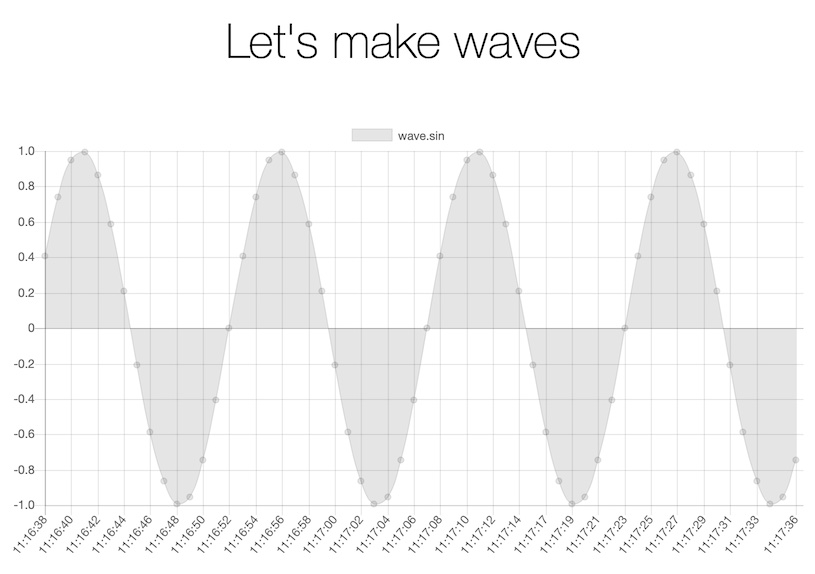
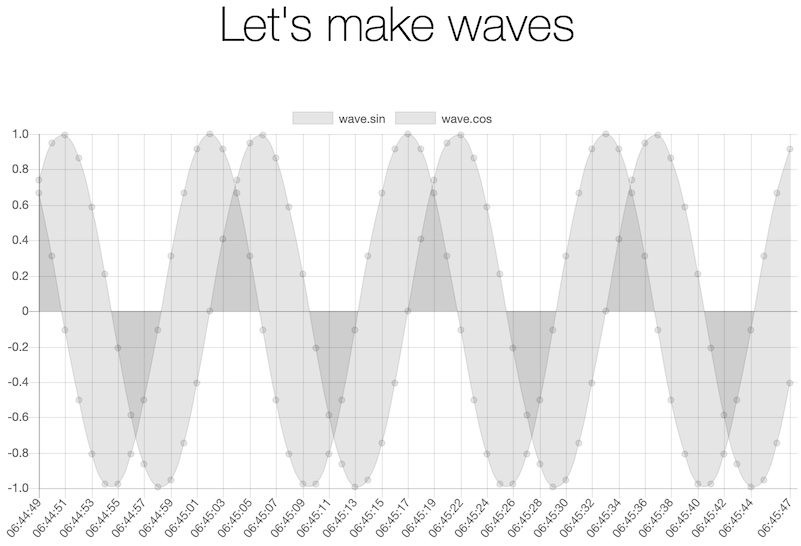
fix multi-series output

diff --git a/docs/tutorials/wave-chart-genjson.md b/docs/tutorials/wave-chart-genjson.md
@@ -17,7 +17,7 @@ machbase-neo shell chart \
     --count 1 \
     --output - \
     --format json \
-    EXAMPLE/wave.sin
+    EXAMPLE/wave.sin EXAMPLE/wave.cos
 ```
 
 In this example, we specified `-` instead of filename for `--output` to prints output on stdout.
@@ -27,15 +27,23 @@ In this example, we specified `-` instead of filename for `--output` to prints o
   "type": "line",
   "data": {
     "labels": [
-      "01:04:14","01:04:15","01:04:16","01:04:17","01:04:18","01:04:19","01:04:20",
-      "01:04:21","01:04:22","01:04:23","01:04:24","01:04:25","01:04:26","01:04:27"
+      "06:33:23","06:33:24","06:33:25","06:33:26","06:33:27","06:33:28","06:33:29",
+      "06:33:30","06:33:31","06:33:32","06:33:33","06:33:34","06:33:35","06:33:36"
     ],
     "datasets": [
       {
         "label": "wave.sin",
         "data": [
-          -0.587748,-0.866002,-0.994517,-0.951071,-0.743176,-0.40678,-4.8e-05,
-          0.406693,0.743112,0.951041,0.994527,0.86605,0.587826,0.207961
+          -0.587439,-0.865811,-0.994477,-0.951189,-0.743432,-0.407129,-0.00043,
+          0.406344,0.742857,0.950923,0.994567,0.866241,0.588135,0.208335
+        ],
+        "borderWidth": 1
+      },
+      {
+        "label": "wave.cos",
+        "data": [
+          -0.809268,-0.500371,-0.104955,0.308609,0.668812,0.913371,1,
+          0.91372,0.669451,0.309427,-0.1041,-0.499626,-0.808763,-0.978058
         ],
         "borderWidth": 1
       }

diff --git a/docs/tutorials/wave-chart-genhtml.md b/docs/tutorials/wave-chart-genhtml.md
@@ -18,7 +18,7 @@ machbase-neo shell chart \
     --range 1m --count 1 \
     --output chart.html --format html \
     --html-title "Let's make waves" \
-    EXAMPLE/wave.sin
+    EXAMPLE/wave.sin EXAMPLE/wave.sin
 ```
 
 This command generates "chart.html" file that specified in `--output` like below.
